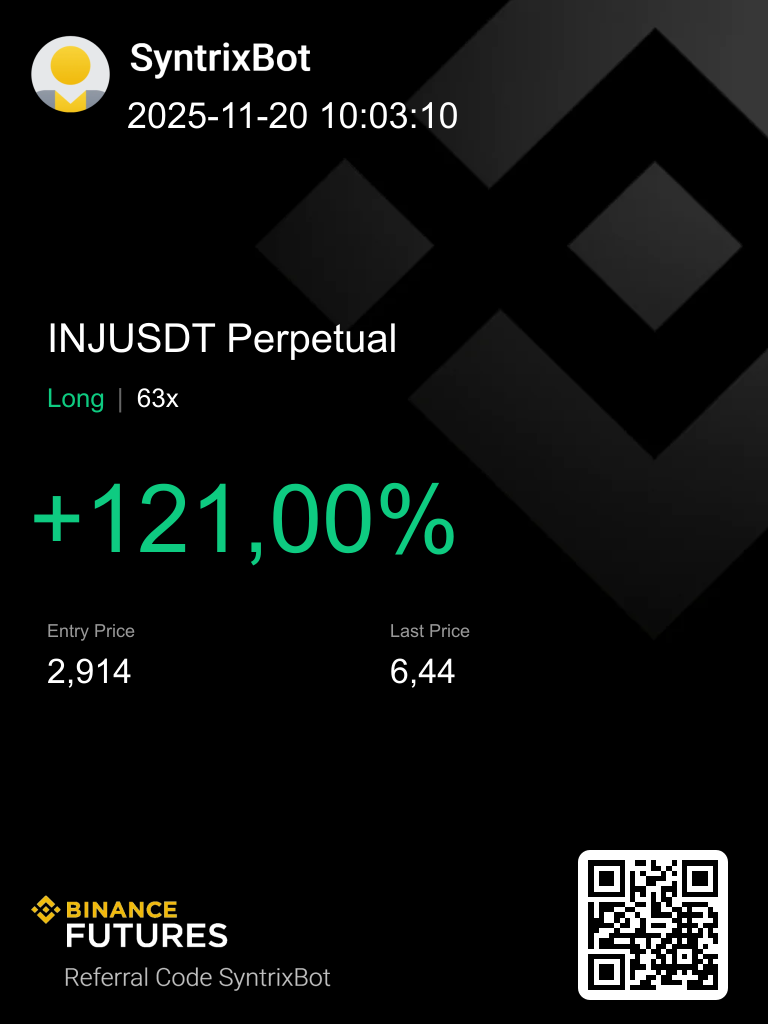
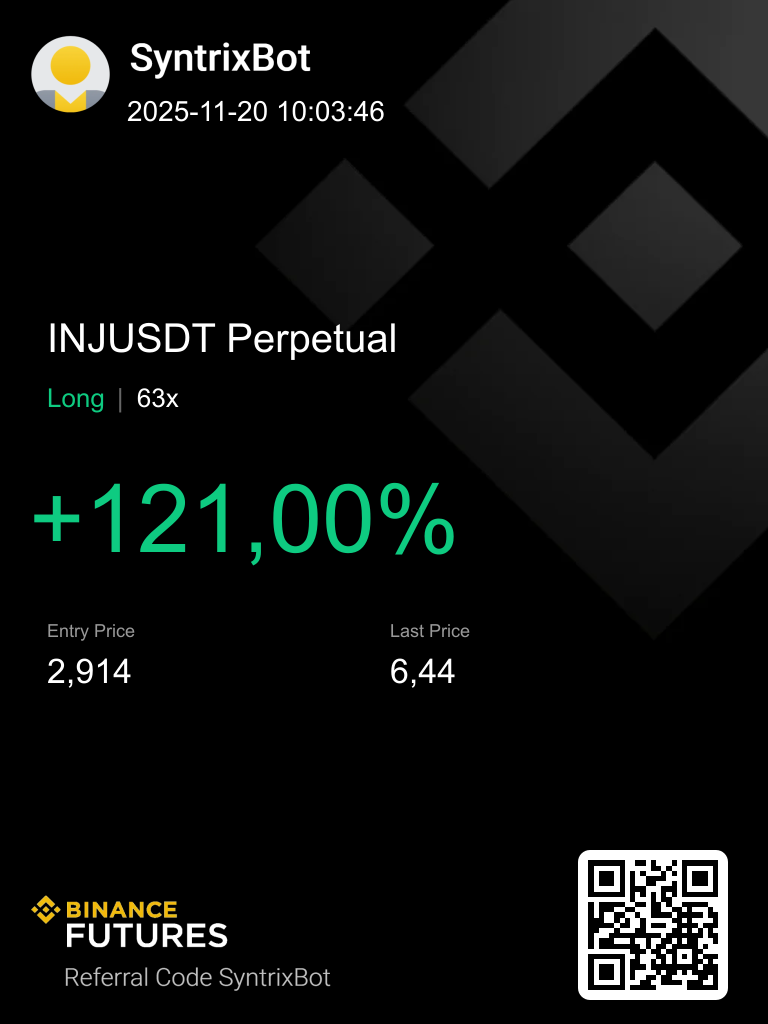
Reduce timestamp font size to 28px

Changed region(s): [[0.1562, 0.0938, 0.5938, 0.125]]

diff --git a/telegram-bot/src/cardGenerator.ts b/telegram-bot/src/cardGenerator.ts
@@ -188,7 +188,7 @@ function drawHeader(ctx: CanvasRenderingContext2D, data: TradingCardData, layout
   // Background image already has avatar and SyntrixBot name
   // Draw timestamp below the SyntrixBot name
   ctx.fillStyle = '#ffffff'
-  ctx.font = '36px Arial'
+  ctx.font = '28px Arial'
   ctx.textAlign = 'left'
   ctx.textBaseline = 'top'
   const timestamp = data.timestamp.toISOString().replace('T', ' ').substring(0, 19)
